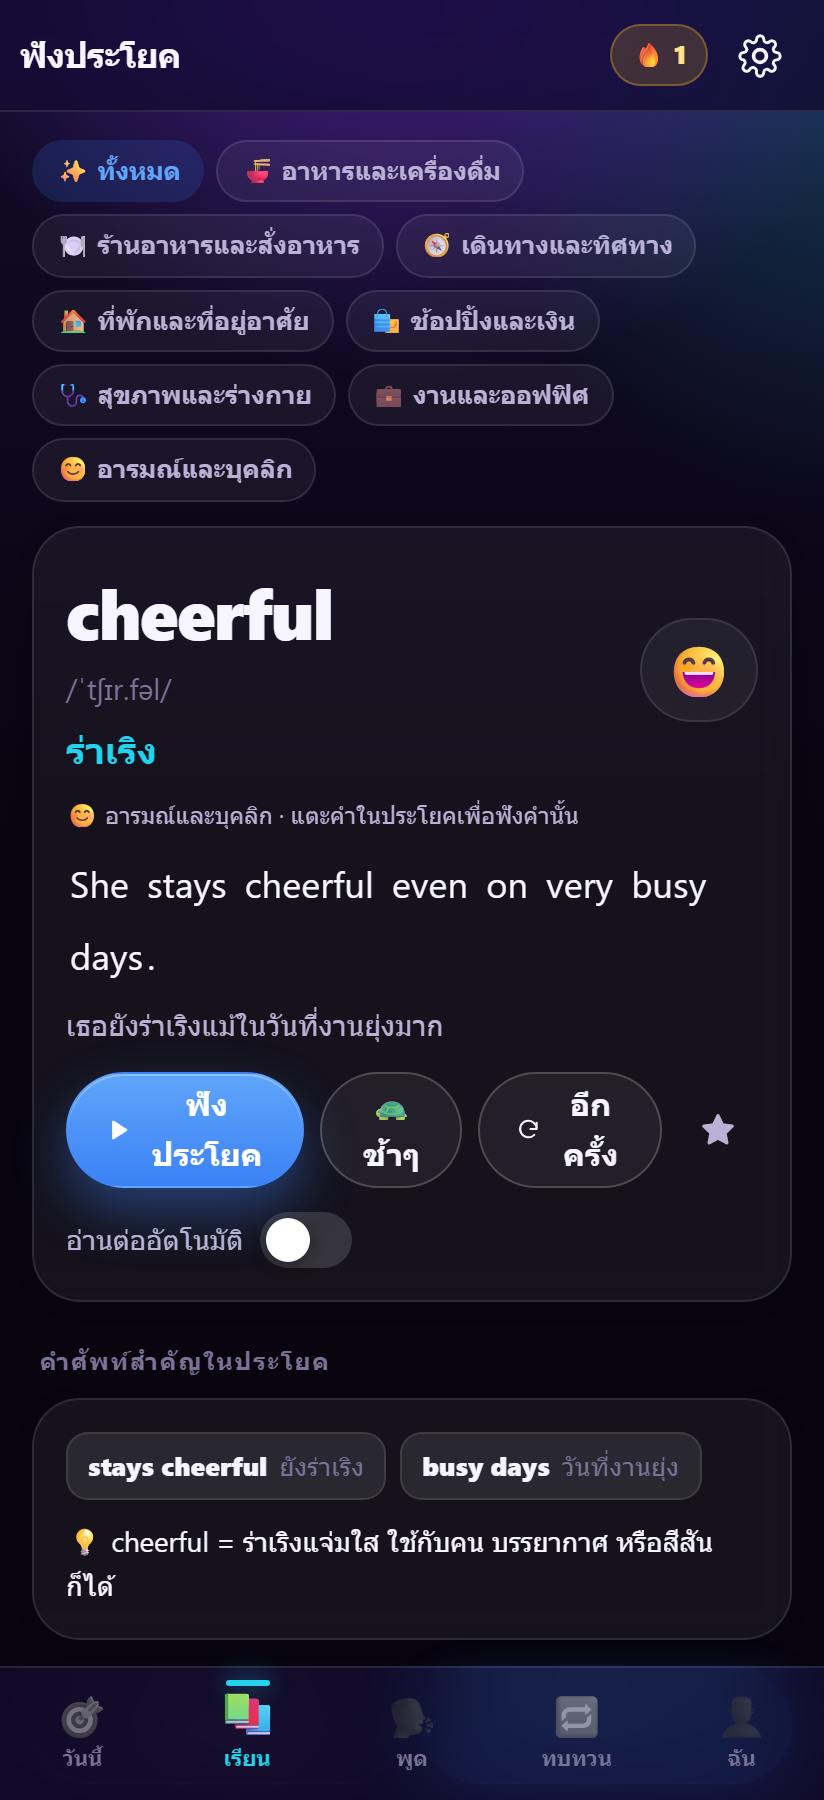
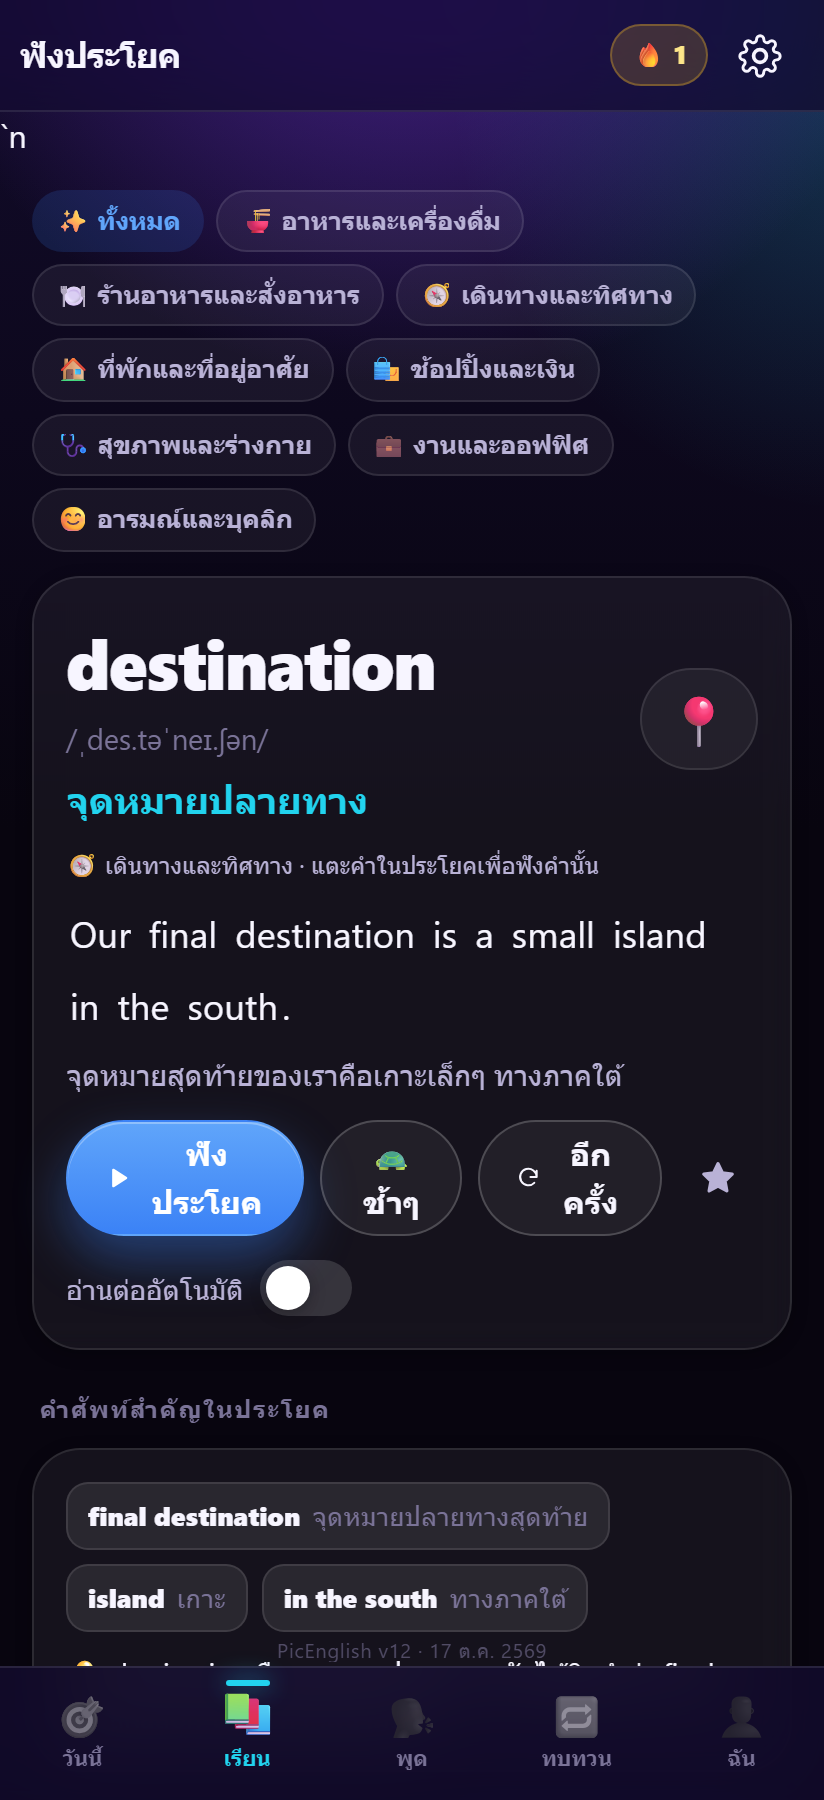
feat: visible app version + speech self-test (and fix a broken boot path)
Requested by the user: show the version at the bottom of the app.

- js/version.js is the single source of truth (VERSION/BUILD_DATE)
- version tag pinned above the tabbar (outside #view so view re-renders
  cannot remove it); check_imports.mjs now fails if it drifts from sw.js
- speech.js: sttSelfTest() runs a real recognition for 5s and returns the
  exact error code (network / not-allowed / service-not-allowed / no-speech)
- settings -> mic diagnostics now shows the self-test verdict and copies
  a compact report the user can send to the developer

Also fixes a regression I introduced earlier: renderVersionTag was defined
inside main() but called from route(), so route() threw every time ->
main() aborted -> the service worker never registered (offline broke).
Moved it to module scope and removed the duplicate hashchange listener.

sw v12; 138/138 E2E incl. offline + version parity

diff --git a/js/views.js b/js/views.js
@@ -11,7 +11,7 @@ import {
 } from './ui.js';
 import {
   speak, stopSpeaking, sayText, speakSentence, renderSentence, clearHighlight, loadVoices,
-  englishVoices, sttSupported, sttSupport, sttErrorReason, inAppBrowser, createRecognizer, alignWords,
+  englishVoices, sttSupported, sttSupport, sttErrorReason, sttSelfTest, inAppBrowser, createRecognizer, alignWords,
 } from './speech.js';
 import { micPanel } from './micfallback.js';
 import { photoFor, preloadPhotos, clearPhotoCache } from './images.js';
@@ -1204,16 +1204,24 @@ function toggleHardWithToast(w) {
 function micDiagSheet() {
   openSheet((close) => {
     const out = h('div', { class: 'small', style: { lineHeight: '1.9' }, text: 'กำลังตรวจ…' });
-    micDiagnosticsReport().then((rep) => {
+    micDiagnosticsReport().then(async (rep) => {
+      out.textContent = 'กำลังทดสอบระบบฟังเสียง…';
+      const stt = await sttSelfTest(5000);
+      const sttLine = 'stt=' + (stt.ok ? 'ok' : (stt.err || 'unknown'));
+      const full = rep + ' | ' + sttLine;
+      const sttText = stt.ok
+        ? '✅ ระบบฟังเสียงทำงาน (ถอดคำได้)'
+        : '❌ ระบบฟังเสียงไม่ทำงาน: ' + (stt.err || 'unknown') + ' — ' + sttErrorReason(stt.err);
       mount(out,
-        h('div', { class: 'small', style: { fontFamily: 'monospace', fontSize: '.72rem', lineHeight: '1.7', wordBreak: 'break-word', padding: '10px', borderRadius: '12px', background: 'var(--surface-2)', border: '1px solid var(--border)' }, text: rep }),
+        h('div', { class: 'bold', style: { color: stt.ok ? 'var(--success)' : 'var(--danger)', fontSize: '.9rem' }, text: sttText }),
+        h('div', { class: 'small', style: { fontFamily: 'monospace', fontSize: '.7rem', lineHeight: '1.7', wordBreak: 'break-word', padding: '10px', borderRadius: '12px', background: 'var(--surface-2)', border: '1px solid var(--border)', marginTop: '8px' }, text: full }),
         h('div', { class: 'tiny muted', style: { marginTop: '8px' }, text: 'คัดลอกข้อความนี้ส่งให้ผู้พัฒนา เพื่อรู้สาเหตุที่แน่นอนบนเครื่องคุณ' }),
         h('div', { class: 'row', style: { gap: '8px', marginTop: '10px' } },
           h('button', {
             class: 'btn btn-primary btn-block btn-sm', type: 'button',
             onclick: async () => {
               try {
-                await navigator.clipboard.writeText(rep);
+                await navigator.clipboard.writeText(full);
                 toast('คัดลอกข้อมูลแล้ว — ส่งมาให้ผู้พัฒนาได้เลย', 'ok');
               } catch (e) {
                 toast('คัดลอกไม่สำเร็จ — จด/แคปหน้าจอแทน', 'err');

diff --git a/js/app.js b/js/app.js
@@ -7,6 +7,7 @@ import { views, openSettings } from './views.js';
 import { speakingHub, roleplay, sentenceReview, oneMinute } from './views-speaking.js';
 import { today } from './views-today.js';
 import { inAppBanner } from './openinbrowser.js';
+import { VERSION as APP_VERSION, BUILD_DATE } from './version.js';
 import { h, mount, toast, emptyState } from './ui.js';
 import * as store from './store.js';
 import { loadVoices, loadAudioManifest } from './speech.js';
@@ -89,6 +90,20 @@ function parseHash() {
   return { name, params };
 }
 
+/** แสดงเลขเวอร์ชันท้ายแอป เพื่อให้รู้ว่ากำลังใช้รุ่นไหน */
+function renderVersionTag() {
+  const slot = document.getElementById('app-version-slot');
+  if (!slot) return;
+  const d = new Date(BUILD_DATE + 'T00:00:00');
+  const thai = d.toLocaleDateString('th-TH', { day: 'numeric', month: 'short', year: 'numeric' });
+  slot.innerHTML = '';
+  const tag = document.createElement('div');
+  tag.id = 'app-version';
+  tag.className = 'app-version';
+  tag.textContent = 'PicEnglish ' + APP_VERSION + ' · ' + thai;
+  tag.title = 'เวอร์ชันแอป: ' + APP_VERSION + ' (build ' + BUILD_DATE + ')';
+  slot.appendChild(tag);
+}
 function route() {
   const { name, params } = parseHash();
   const render = ROUTES[name] || ROUTES.today;
@@ -112,6 +127,7 @@ function route() {
     mount(viewEl, emptyState('😵', 'เกิดข้อผิดพลาดในการแสดงผล', String(err && err.message || err)));
   }
   updateBadges();
+  renderVersionTag();
 }
 
 backBtn.addEventListener('click', () => {
@@ -186,7 +202,6 @@ function renderInAppNotice() {
 }
 renderInAppNotice();
 
-window.addEventListener('hashchange', route);
   started = true;
   route();
   registerSW();
@@ -198,4 +213,5 @@ window.addEventListener('hashchange', route);
   document.addEventListener('visibilitychange', () => { if (!document.hidden && started) updateBadges(); });
 }
 
+window.addEventListener('hashchange', route);
 main();

diff --git a/js/speech.js b/js/speech.js
@@ -450,3 +450,30 @@ export function inAppBrowser(uaOverride) {
     return /\bwv\b/.test(ua) ? 'WebView' : '';
   } catch (e) { return ''; }
 }
+/**
+ * ทดสอบระบบฟังเสียงจริง 4 วินาที → คืนรหัส error ที่แท้จริง
+ * ใช้แยกว่า "ไม่มี Permission" กับ "เครื่องไม่มีบริการถอดเสียง (network)"
+ */
+export function sttSelfTest(timeoutMs = 6000) {
+  return new Promise((resolve) => {
+    if (!sttSupported()) { resolve({ ok: false, err: 'unsupported' }); return; }
+    let done = false;
+    const finish = (res) => { if (done) return; done = true; try { rec && rec.abort && rec.abort(); } catch (e) { /* ignore */ } resolve(res); };
+    let rec = null;
+    try {
+      rec = createRecognizer({
+        lang: 'en-US',
+        interim: false,
+        onResult: ({ final }) => finish({ ok: true, err: '', text: final || '' }),
+        onError: (err) => finish({ ok: false, err }),
+        onEnd: () => finish({ ok: false, err: 'no-speech' }),
+      });
+      if (!rec) { resolve({ ok: false, err: 'unsupported' }); return; }
+      rec.start();
+    } catch (e) {
+      finish({ ok: false, err: 'start-failed' });
+      return;
+    }
+    setTimeout(() => finish({ ok: false, err: 'timeout' }), timeoutMs);
+  });
+}

diff --git a/css/style.css b/css/style.css
@@ -636,3 +636,18 @@ html.liff-client .view { padding-bottom: calc(var(--tabbar-h) + env(safe-area-in
   background: color-mix(in srgb, var(--gold) 12%, var(--surface));
   box-shadow: 0 8px 22px color-mix(in srgb, var(--gold) 18%, transparent);
 }
+/* ---------- 22. VERSION TAG ---------- */
+.app-version-slot {
+  position: fixed; left: 0; right: 0;
+  bottom: calc(var(--tabbar-h) + env(safe-area-inset-bottom) + 2px);
+  z-index: 35; text-align: center; pointer-events: none;
+}
+.app-version {
+  margin: 0;
+  text-align: center;
+  font-size: .62rem;
+  letter-spacing: .04em;
+  color: var(--text-dim);
+  opacity: .6;
+  font-family: var(--font-en);
+}

diff --git a/index.html b/index.html
@@ -33,7 +33,7 @@
 
   <div id="inapp-warning" class="inapp-warning hidden"></div>`n  <main id="view" class="view" aria-live="polite"></main>
 
-  <nav class="tabbar" id="tabbar">
+  <div id="app-version-slot" class="app-version-slot"></div>`n  <nav class="tabbar" id="tabbar">
     <a href="#/today" data-tab="today"><span class="ti">🎯</span><span class="tl">วันนี้</span></a>
     <a href="#/learn" data-tab="learn"><span class="ti">📚</span><span class="tl">เรียน</span></a>
     <a href="#/speaking" data-tab="speaking"><span class="ti">🗣</span><span class="tl">พูด</span></a>

diff --git a/sw.js b/sw.js
@@ -1,5 +1,5 @@
 /* PicEnglish service worker — offline-first สำหรับตัวแอป + cache ภาพถ่ายจากคลังฟรี */
-const VERSION = 'v11';
+const VERSION = 'v12';
 const SHELL_CACHE = `picenglish-shell-${VERSION}`;
 const PHOTO_CACHE = `picenglish-photos-${VERSION}`;
 
@@ -21,6 +21,7 @@ const SHELL_ASSETS = [
   './js/liff.js',
   './js/art.js',
   './js/mascot.js',
+  './js/version.js',
   './js/micfallback.js',
   './js/openinbrowser.js',
   './js/views-today.js',

diff --git a/js/version.js b/js/version.js
@@ -1,0 +1,8 @@
+/**
+ * version.js — แหล่งความจริงของเลขเวอร์ชัน (แสดงท้ายแอป)
+ *
+ * กติกา: ทุกครั้งที่แก้ไฟล์ที่แอปโหลด ให้เพิ่มเลขนี้ + ใน sw.js ให้ตรงกัน
+ * (scripts/check_imports.mjs จะฟ้องถ้าไม่ตรง)
+ */
+export const VERSION = 'v12';
+export const BUILD_DATE = '2026-10-17';
